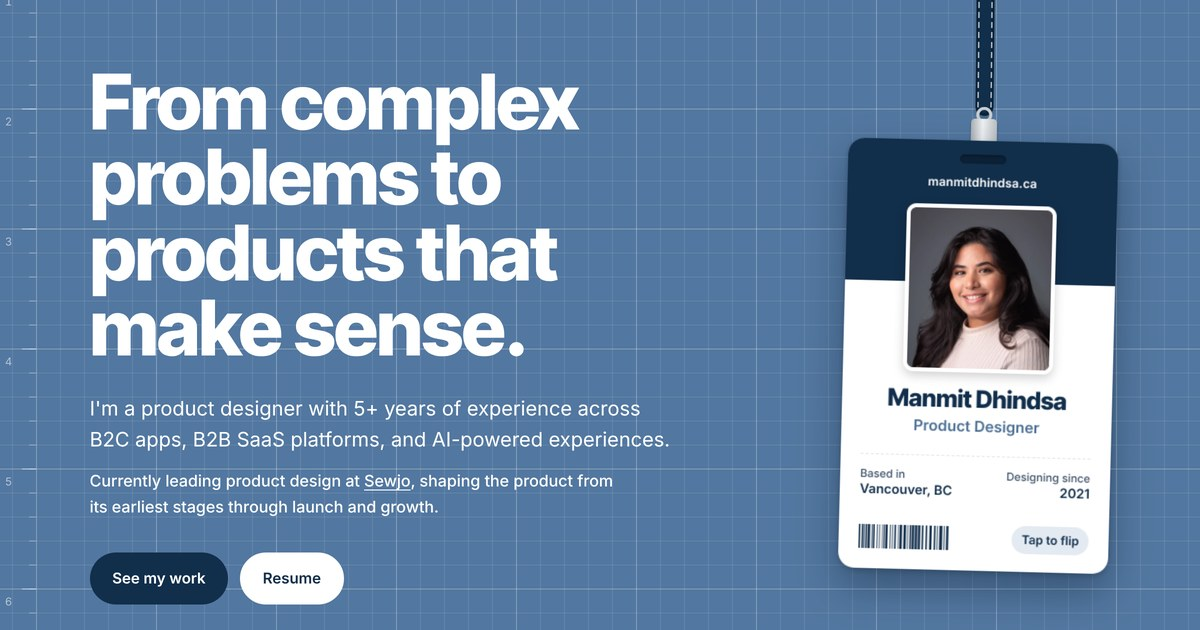
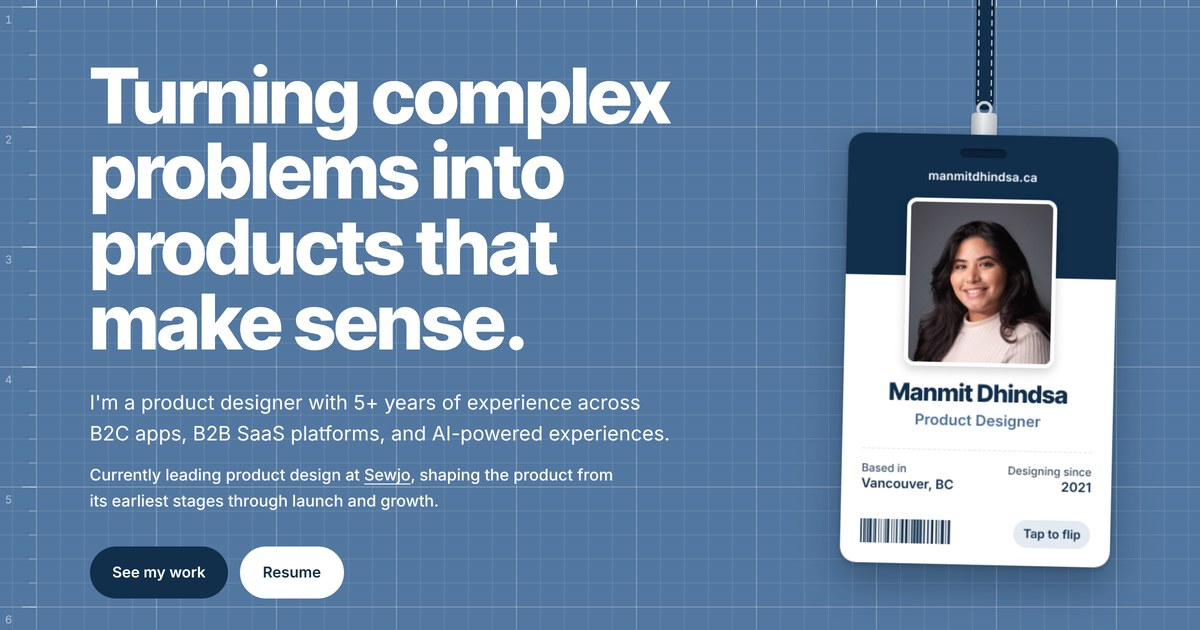
Hero: Turning complex problems into products that make sense
Claude-Session: https://claude.ai/code/session_01CLazYT8C7fLz6B7z1ZghoL

diff --git a/index.html b/index.html
@@ -16,13 +16,13 @@
 <meta name="description" content="Manmit Dhindsa is a product designer in Vancouver with 5+ years of experience across B2C apps, B2B SaaS platforms, and AI-powered experiences.">
 <link rel="canonical" href="https://www.manmitdhindsa.ca/">
 <meta property="og:title" content="Manmit Dhindsa, Product Designer">
-<meta property="og:description" content="From complex problems to products that make sense.">
+<meta property="og:description" content="Turning complex problems into products that make sense.">
 <meta property="og:type" content="website">
 <meta property="og:url" content="https://www.manmitdhindsa.ca/">
 <meta property="og:image" content="https://www.manmitdhindsa.ca/assets/img/og-home.jpg">
 <meta property="og:image:width" content="1200">
 <meta property="og:image:height" content="630">
-<meta property="og:image:alt" content="Manmit Dhindsa's portfolio: From complex problems to products that make sense, beside her work badge">
+<meta property="og:image:alt" content="Manmit Dhindsa's portfolio: Turning complex problems into products that make sense, beside her work badge">
 <meta name="twitter:image" content="https://www.manmitdhindsa.ca/assets/img/og-home.jpg">
 <meta name="twitter:card" content="summary_large_image">
 <link rel="icon" type="image/png" sizes="16x16" href="assets/img/favicon-16.png">
@@ -58,7 +58,7 @@
 
     <div class="mat-inner">
       <div>
-        <h1 class="hero-title" id="hero-title">From complex problems to products that make sense.</h1>
+        <h1 class="hero-title" id="hero-title">Turning complex problems into products that make sense.</h1>
         <p class="hero-lede">I'm a product designer with 5+ years of experience across B2C apps, B2B SaaS platforms, and AI-powered experiences.</p>
         <p class="hero-now">Currently leading product design at <a href="https://apps.apple.com/app/id6737978613">Sewjo</a>, shaping the product from its earliest stages through launch and growth.</p>
         <div class="btn-row">
